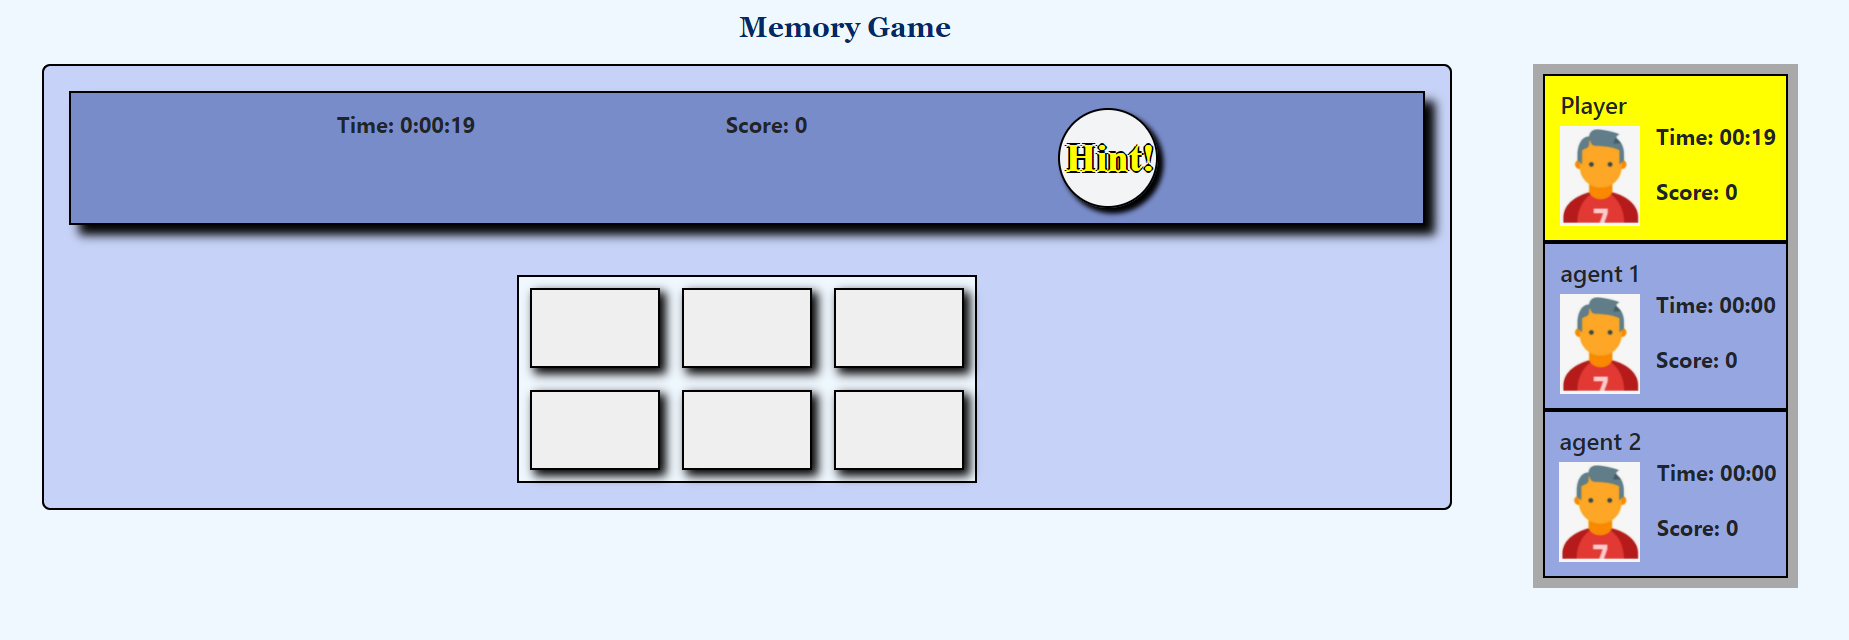
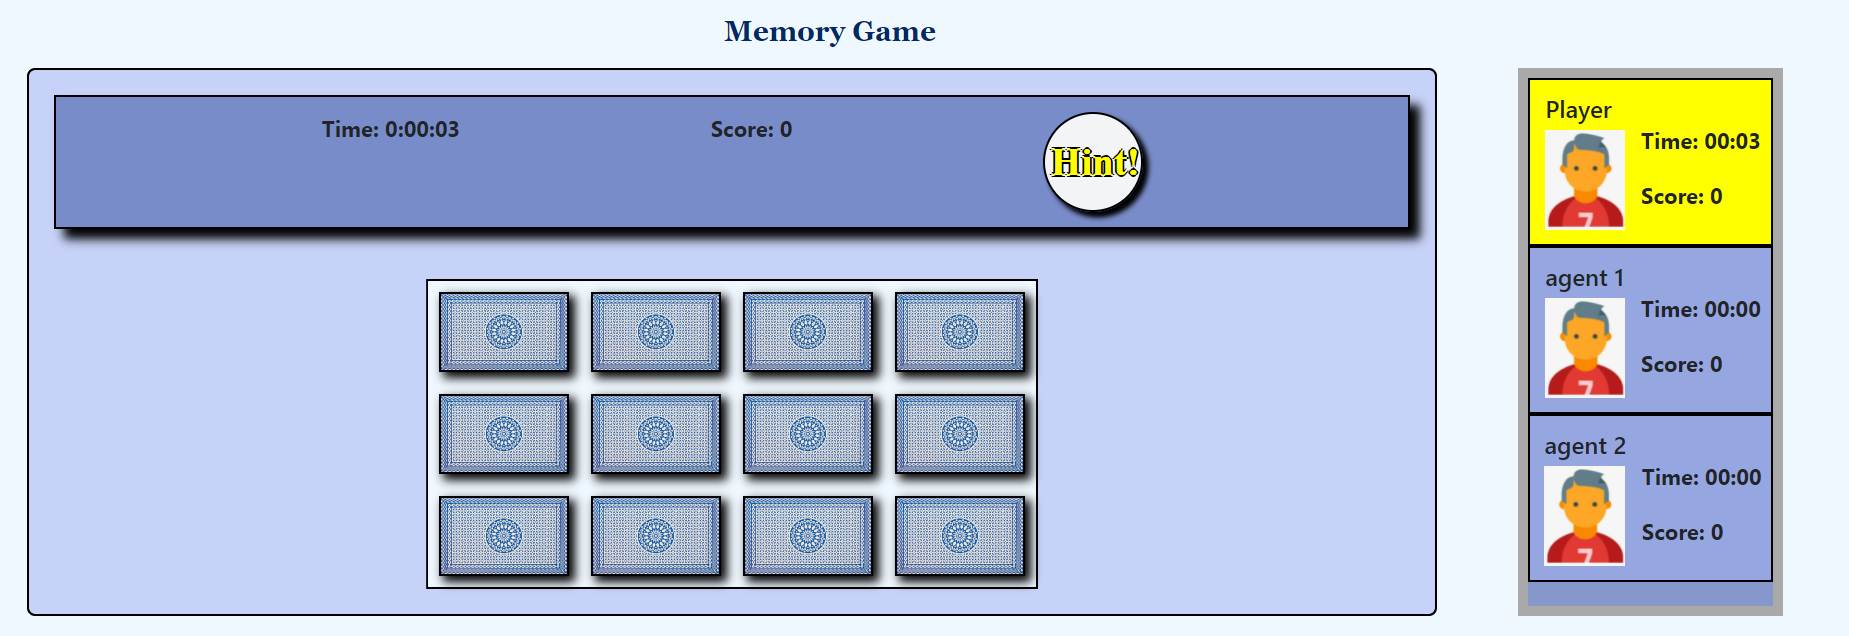
finised all flows. experiment flow - minor bugs to be fixed. admin - replay not working, databtable is not updated yet

diff --git a/MemoryGame/Scripts/JS/feedback.js b/MemoryGame/Scripts/JS/feedback.js
@@ -64,7 +64,7 @@ var textBoxData;
 const questions = [
     {
         type: 1,
-        question: 'To what extent did you find Bob to be a competent partner?',
+        question: 'To what extent did you find the Agents to be a competent partners?',
         minRangeValue: 1,
         maxRangeValue: 10,
         baseValue: 1
@@ -75,35 +75,28 @@ const questions = [
     },
     {
         type: 1,
-        question: 'To what extent did you find Bob to be a competent partner?',
+        question: 'To what extent are you satisfied with the Agents?',
         minRangeValue: 1,
         maxRangeValue: 10,
         baseValue: 1
     },
     {
         type: 1,
-        question: 'To what extent are you satisfied with Bob?',
+        question: 'To what extent do you find the Agents to be likeable?',
         minRangeValue: 1,
         maxRangeValue: 10,
         baseValue: 1
     },
     {
         type: 1,
-        question: 'To what extent do you find Bob to be likeable?',
-        minRangeValue: 1,
-        maxRangeValue: 10,
-        baseValue: 1
-    },
-    {
-        type: 1,
-        question: 'To what extent would you recommend Bob to a friend, as a partner to work with?',
+        question: 'To what extent would you recommend the Agents to a friend, as a partners to work with?',
         minRangeValue: 1,
         maxRangeValue: 10,
         baseValue: 1
     },
     {
         type: 2,
-        question: 'If you could choose - would you rather play with or without Bob?',
+        question: 'If you could choose - would you rather play with or without the Agents?',
         answers: [
             { text: 'With Bob' },
             { text: 'Without Bob' }
@@ -119,7 +112,7 @@ const questions = [
     },
     {
         type: 3,
-        question: 'Please state any other thoughts you have about Bob.'
+        question: 'Please state any other thoughts you have about the Agents.'
     },
     {
         type: 3,

diff --git a/MemoryGame/Scripts/JS/chooseReplay.js b/MemoryGame/Scripts/JS/chooseReplay.js
@@ -96,8 +96,8 @@ function runReplay(replayData) {
         success: function (data) {
 
             const obj = JSON.parse(data);
-            console.log(obj);
-            console.log(obj._gameModel.configuration.numOfCards);
+     //       console.log(obj);
+     //       console.log(obj._gameModel.configuration.numOfCards);
 
             sessionStorage.setItem("size", JSON.stringify(obj._gameModel.configuration.numOfCards));
             sessionStorage.setItem("turnsArray", JSON.stringify(obj._gameModel.turnInfo));
@@ -119,6 +119,10 @@ function runReplay(replayData) {
         }
     });
 
+}
+
+function back() {
+    window.location.replace("/MemoryGame/Admin/ChooseDataOrReplay");
 }
 
 

diff --git a/MemoryGame/Scripts/JS/login.js b/MemoryGame/Scripts/JS/login.js
@@ -14,7 +14,7 @@ function login() {
         contentType: "application/json",
         success: function (data) {
             alert("good");
-            window.location.replace("/MemoryGame/Admin/ChooseReplay");
+            window.location.replace("/MemoryGame/Admin/ChooseDataOrReplay");
         },
         error: function (errMsg) {
             alert("errMsg");

diff --git a/MemoryGame/Scripts/JS/Game2.js b/MemoryGame/Scripts/JS/Game2.js
@@ -41,7 +41,7 @@ $(function () {
     data = {
         overallTime: 200000,// times in milliseconds
         personalTime: 100000,
-        numOfCards: [2, 3],
+        numOfCards: [3, 4],
         numOfAgents: 2,
         // 1 - showing first live card on board.
         // 2 - showing random live card on board.

diff --git a/MemoryGame/Scripts/JS/chooseDataOrReplay.js b/MemoryGame/Scripts/JS/chooseDataOrReplay.js
@@ -1,1 +1,9 @@
-
+function chooseReplay() {
+    window.location.replace("/MemoryGame/Admin/ChooseReplay");
+
+}
+
+function showDataTable() {
+    window.location.replace("/MemoryGame/Admin/DataTable");
+
+}

diff --git a/MemoryGame/Scripts/JS/DataTable.js b/MemoryGame/Scripts/JS/DataTable.js
@@ -37,3 +37,7 @@ function makeTable(data) {
     }
     tablearea.appendChild(table);    
 }
+
+function back() {
+    window.location.replace("/MemoryGame/Admin/ChooseDataOrReplay");
+}

diff --git a/MemoryGame/Content/css/login.css b/MemoryGame/Content/css/login.css
@@ -53,7 +53,7 @@ label {
 
 .container {
     background: #fdfdfd;
-    border: 2px solid white;
+    border: 2px solid black;
     border-radius:20px;
 }
 

diff --git a/MemoryGame/Content/css/interfaceExample.css b/MemoryGame/Content/css/interfaceExample.css
@@ -40,3 +40,7 @@ h3 {
     text-align: center;
     margin-top: 50px;
 }
+
+img {
+    width: auto;
+}
